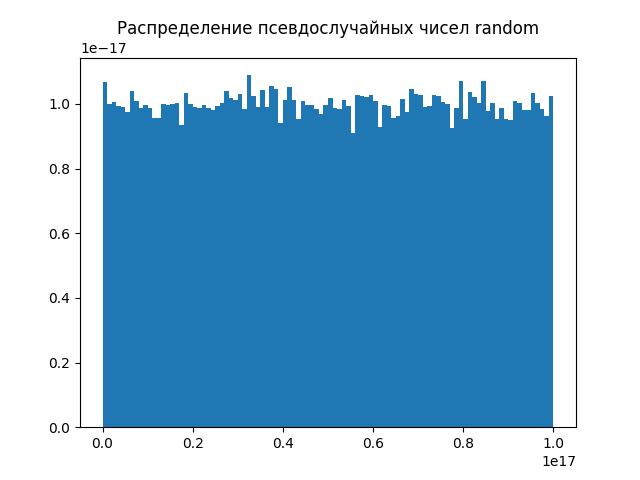
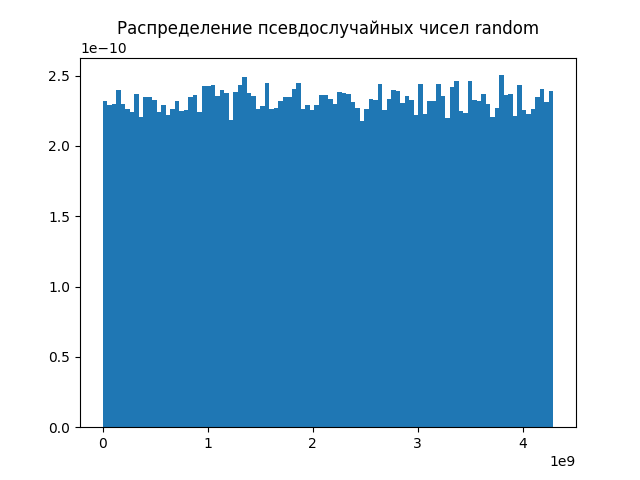
update pics and code

diff --git a/index.py b/index.py
@@ -36,28 +36,28 @@ def calculate_period(lcg):
         print(count)
     return count
 
-period = calculate_period(lcg)
-print(f"Длина периода: {period}")
+# period = calculate_period(lcg)
+# print(f"Длина периода: {period}")
 
 def evaluate_distribution(lcg, num_samples, end_title):
     samples = [lcg() for _ in range(num_samples)]
     plt.hist(samples, bins=100, density=True)
-    plt.title('Распределение псевдослучайных чисел', end_title)
+    plt.title('Распределение псевдослучайных чисел '+ end_title)
     plt.show()
 
 evaluate_distribution(lambda: lcg.next(), 100000, 'lcg')
-evaluate_distribution(lambda: random()*100000000000000000, 100000, 'random')
+evaluate_distribution(lambda: random()*2**32, 100000, 'random')
 
 def evaluate_autocorrelation(lcg, num_samples, end_title):
     samples = np.array([lcg() for _ in range(num_samples)])
     autocorr = np.correlate(samples - np.mean(samples), samples - np.mean(samples), mode='full')
     autocorr = autocorr[autocorr.size // 2:]
-    plt.plot(autocorr[:100])  # Корреляция на первых 100 лагах
+    plt.plot(autocorr[1:100])  # Корреляция на первых 100 лагах
     plt.title('Автокорреляционная функция '+ end_title)
     plt.show()
 
 evaluate_autocorrelation(lambda: lcg.next(), 100000, 'lcg')
-evaluate_autocorrelation(lambda: random()*100000000000000000, 100000, 'random')
+evaluate_autocorrelation(lambda: random()*2**32, 100000, 'random')
 
 def evaluate_speed(lcg, num_samples, end_title):
     start_time = time.time()
